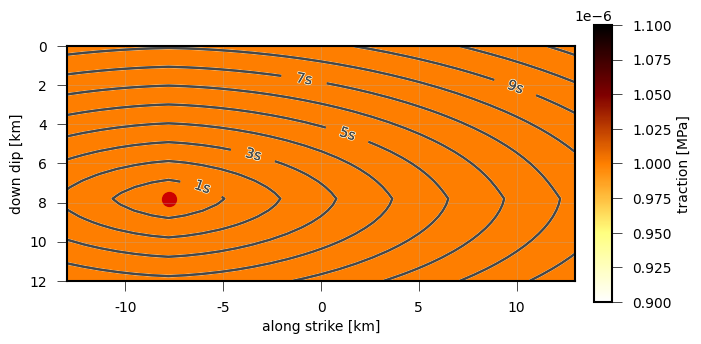
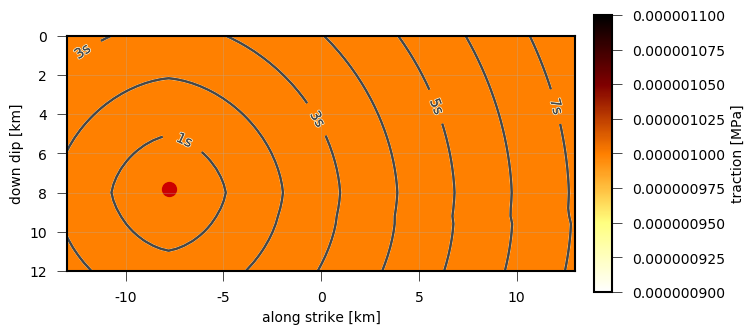
add okada modelling and pseudo-dynamic rupture model (chapter 19)
- bugfixes in vr calculation
- docs
- polishing

diff --git a/src/gf/seismosizer.py b/src/gf/seismosizer.py
@@ -2741,23 +2741,27 @@ class PseudoDynamicRupture(SourceWithDerivedMagnitude):
             num.min(store.config.deltat * vs_min / 2.),
             num.min(store.config.deltas)])
 
-        nx = int(num.floor(self.length / delta)) + 1
+        delta_l = self.length / self.nx
+        delta_w = self.width / self.ny
 
-        if self.length == self.width:
-            ny = nx
-        else:
-            delta = self.length / nx
-            ny = int(num.floor(self.width / delta)) + 1
+        delta = num.min([delta_l, delta_w, delta])
+        delta = delta_w / num.ceil(delta_w / delta)
 
-        nx = nx if nx > self.nx else self.nx
-        ny = ny if ny > self.ny else self.ny
+        nx = int(num.ceil(self.length / delta)) + 1
+        ny = int(num.ceil(self.width / delta)) + 1
 
-        nx += 1
-        ny += 1
+        rest_l = (nx-1)*delta - self.length
+        rest_w = (ny-1)*delta - self.width
+
+        lim_x = rest_l / self.length
+        lim_y = rest_w / self.width
 
         points_xy = num.zeros((nx * ny, 2))
-        points_xy[:, 0] = num.repeat(num.linspace(-1., 1., nx), ny)
-        points_xy[:, 1] = num.tile(num.linspace(-1., 1., ny), nx)
+        points_xy[:, 0] = num.repeat(
+            num.linspace(-1.-lim_x, 1.+lim_x, nx), ny)
+        points_xy[:, 1] = num.tile(
+            num.linspace(-1.-lim_y, 1.+lim_y, ny), nx)
+
         points = self.points_on_source(
             points_x=points_xy[:, 0],
             points_y=points_xy[:, 1],
@@ -4167,7 +4171,6 @@ class HorizontalVectorRule(Rule):
         if nonzero(sa):
             data = data + base_seismogram[e].data * sa
 
-<<<<<<< HEAD
         if self.differentiate:
             deltat = base_seismogram[e].deltat
             data = util.diff_fd(self.differentiate, 4, deltat, data)
@@ -4175,8 +4178,6 @@ class HorizontalVectorRule(Rule):
         if self.integrate:
             raise NotImplementedError('Integration is not implemented yet.')
 
-=======
->>>>>>> 7ee89e76... seismosizer, gf.meta, dynamic_rupture plot: bugfixes
         return data
 
 

diff --git a/src/plot/directivity.py b/src/plot/directivity.py
@@ -312,15 +312,11 @@ def plot_directivity(
     strike_label = mt.strike1
     if hasattr(source, 'strike'):
         strike_label = source.strike
-<<<<<<< HEAD
 
     try:
         ax.set_rlabel_position(strike_label % 180.)
     except AttributeError:
         logger.warn('Old matplotlib version: cannot set label positions')
-=======
-    ax.set_rlabel_position(strike_label % 180.)
->>>>>>> fc47423f... directivity: merge from branch
 
     def r_fmt(v, p):
         if v < tbegin or v > tend:

diff --git a/src/plot/dynamic_rupture.py b/src/plot/dynamic_rupture.py
@@ -1531,9 +1531,11 @@ class RuptureView(Object):
         if self._is_1d:
             return
 
-        ylim = self._axes.get_ylim()
-        if ylim[0] < ylim[-1]:
-            self._axes.set_ylim(ylim[::-1])
+        length, width = xy_to_lw(
+            self.source, num.array([-1., 1.]), num.array([1., -1.]))
+
+        self._axes.set_xlim(length)
+        self._axes.set_ylim(width)
 
     def gcf(self):
         self.finalize()

diff --git a/examples/gf_forward_pseudo_rupture_simple_plot.py b/examples/gf_forward_pseudo_rupture_simple_plot.py
@@ -25,8 +25,8 @@ dyn_rupture = gf.PseudoDynamicRupture(
     width=12*km,
     length=26*km,
 
-    nx=20,
-    ny=30,
+    nx=30,
+    ny=20,
 
     # Relative nucleation between -1. and 1.
     nucleation_x=-.6,
